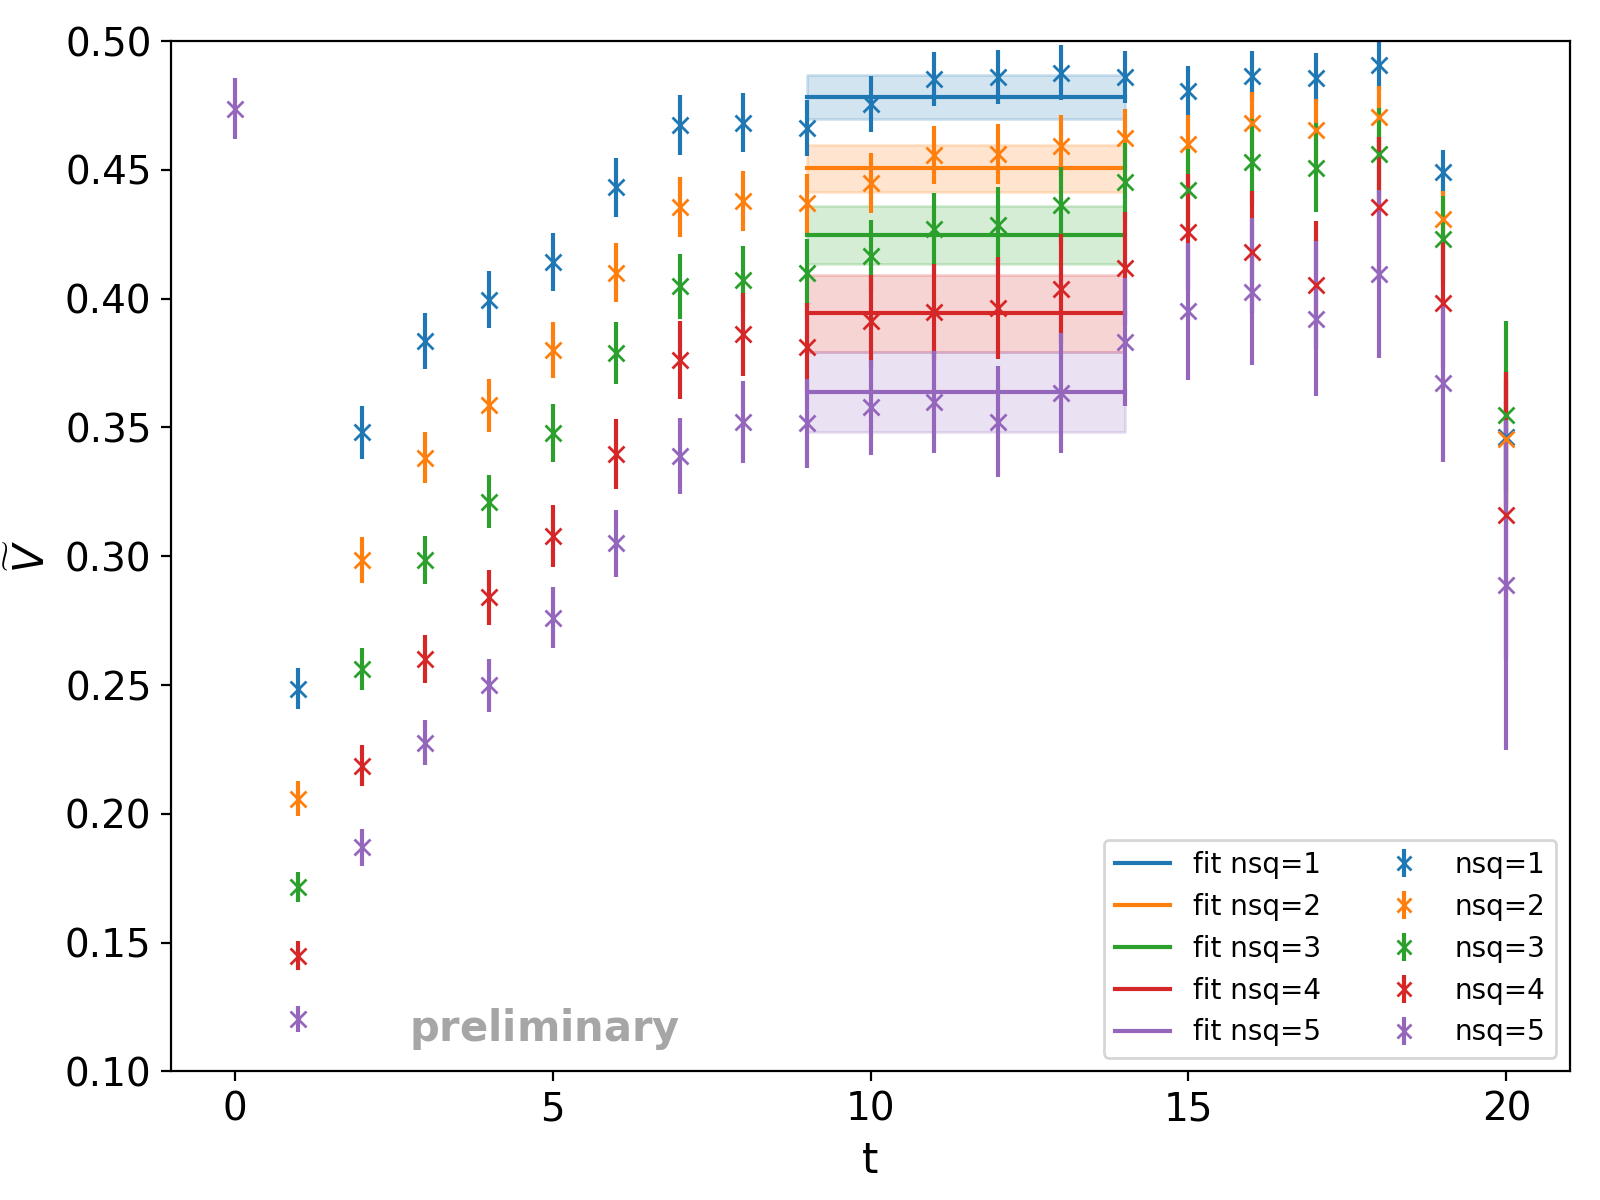
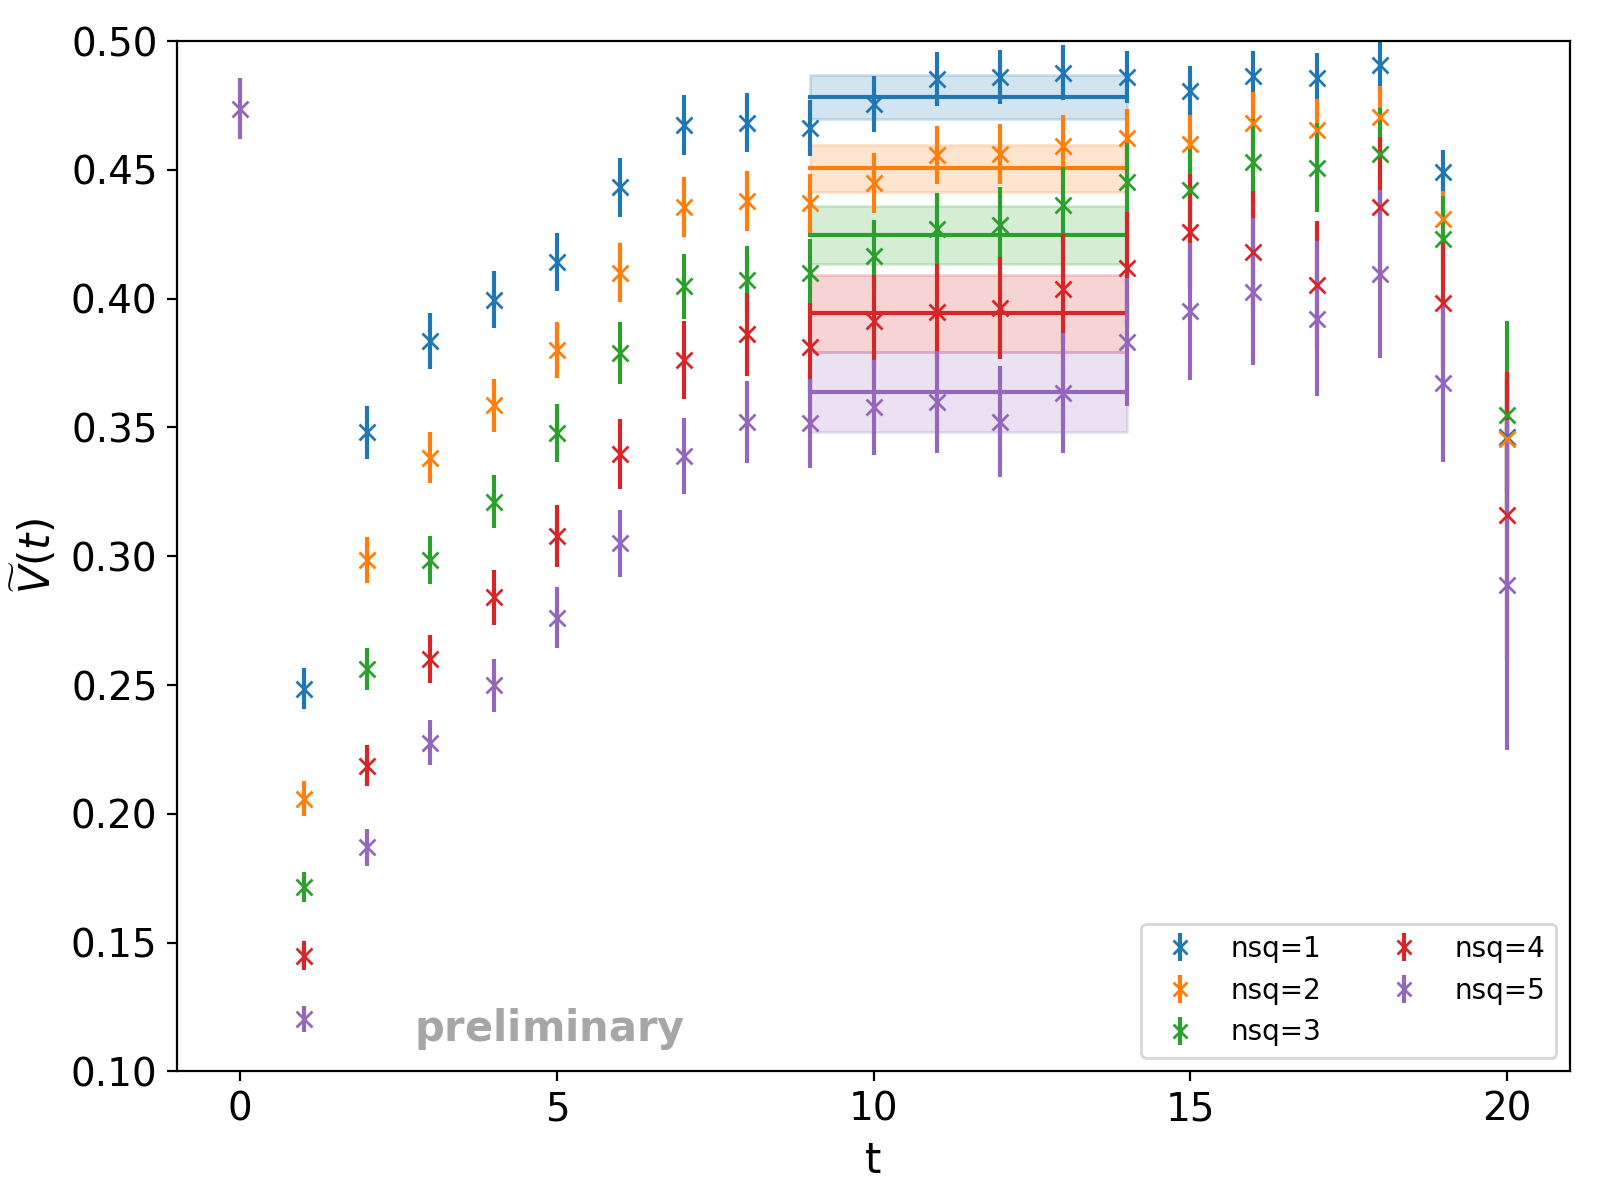
cc

diff --git a/Code/Analysis-combined.py b/Code/Analysis-combined.py
@@ -393,7 +393,7 @@ def plot_all_t_with_bands(all_ratios, nconf, nsq_order, central, jk_params):
         t_fit = np.arange(reg_low, reg_up)
 
         plt.plot(t_fit, np.full_like(t_fit, fit_central, dtype=float),
-         '-', color=colors[i % len(colors)], label=f'fit nsq={nsq}')
+         '-', color=colors[i % len(colors)])
 
         plt.fill_between(
         t_fit,
@@ -412,7 +412,7 @@ def plot_all_t_with_bands(all_ratios, nconf, nsq_order, central, jk_params):
     #plt.xlabel("t")
     #plt.ylabel("Ratio")
     plt.xlabel('t', fontsize=15)
-    plt.ylabel(r'$\widetilde{V}$', fontsize=15)
+    plt.ylabel(r'$\widetilde{V}(t)$', fontsize=15)
     #plt.title("Global fit with per-nsq decay constants")
     plt.legend()
     plt.ylim(0.1,0.5)
